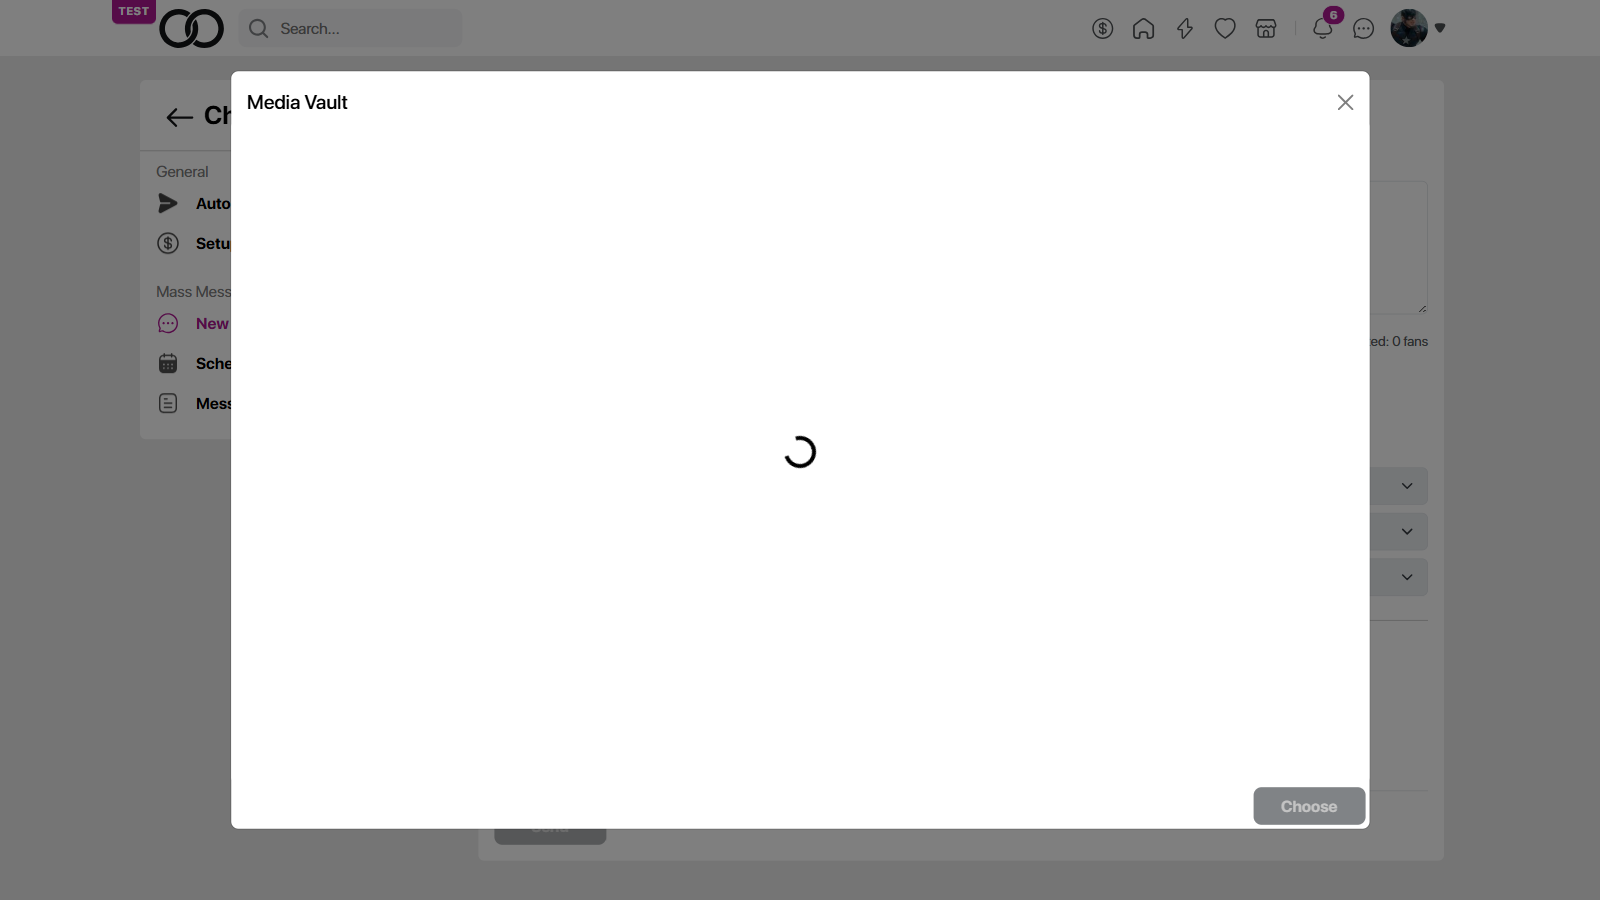
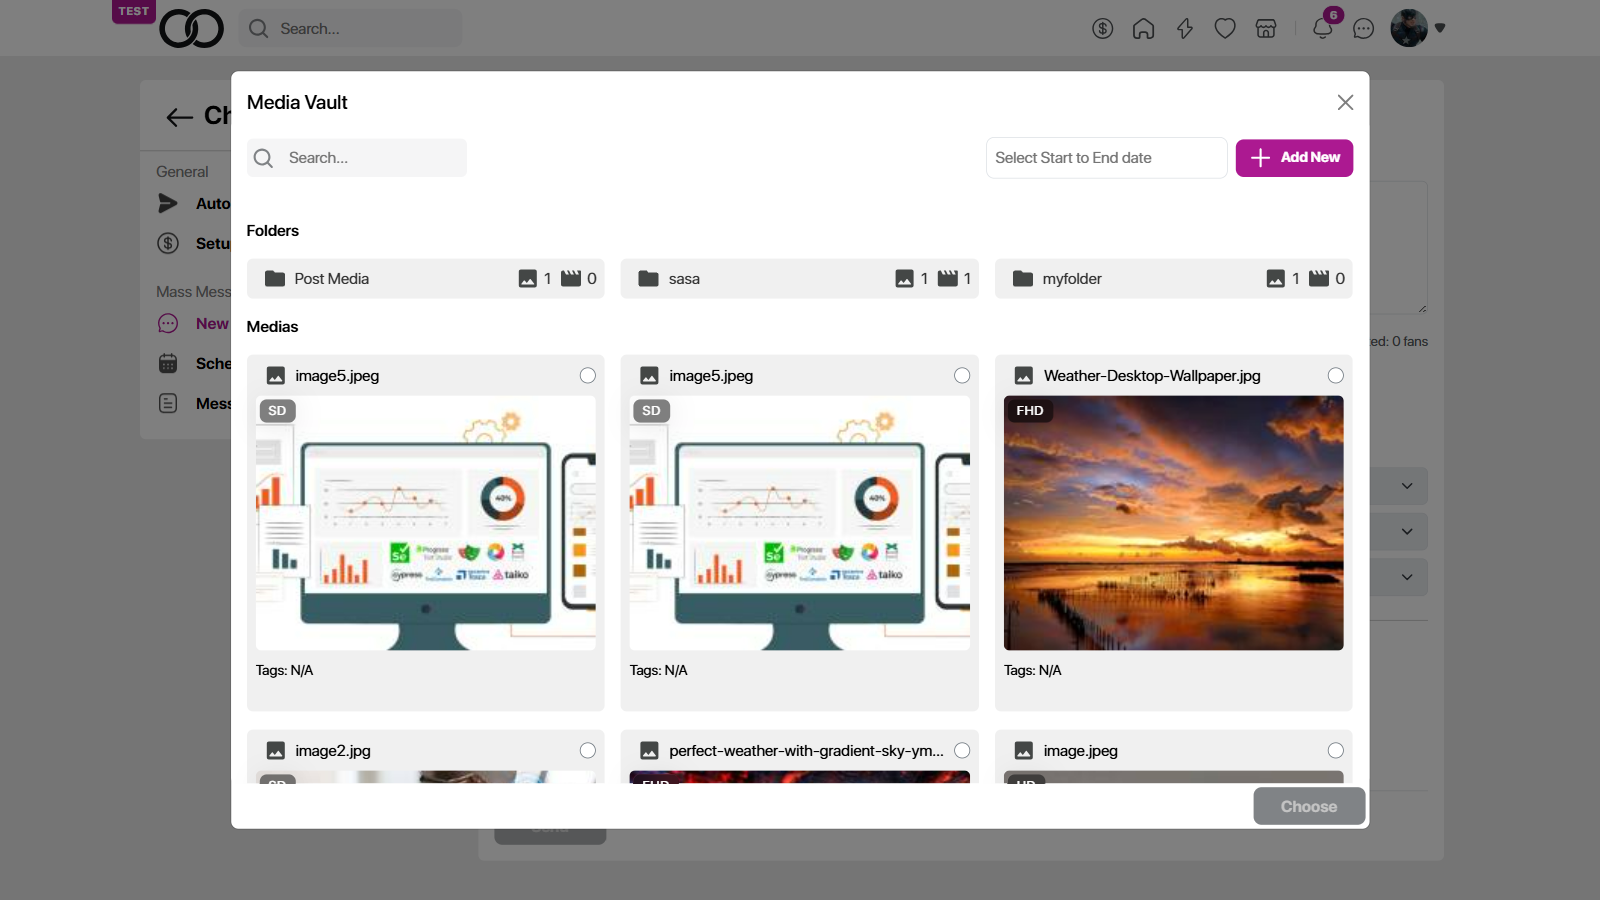
To add massMediaVaultTest  and Update the massMessageTest

diff --git a/tests/massVaultMedia.test.js b/tests/massVaultMedia.test.js
@@ -91,74 +91,77 @@ chatData.forEach((dataRow, index) => {
       await handleError(page, index, 'Navigate to Chat', error);
     }
 
-    // Send Mass Message
-    const messageType = dataRow.MessageType?.toLowerCase();
-    console.log(`Sending Mass Message for type: ${messageType}`);
-    let sentMessage = '';
-    try {
-      sentMessage = await chat.sendMassMediaVault({
-        type: messageType,
-        content: phrase, // Use generated phrase as message content
-      });
-      await page.waitForTimeout(1000); // Buffer wait after typing message
-    } catch (error) {
-      await handleError(page, index, 'Send Mass Message', error);
-    }
+// Send Mass Message
+const messageType = dataRow.MessageType?.toLowerCase();
+console.log(`Sending Mass Message for type: ${messageType}`);
+let sentMessage = '';
 
-    // Select send details and submit
-    try {
-      await chat.sendMassMessageFromData();
-      console.log('Selected send details for the message.');
-    } catch (error) {
-      await handleError(page, index, 'Select Send Details', error);
-    }
+try {
+  // Sending the Mass Media Vault message
+  sentMessage = await chat.sendMassMediaVault({
+    type: messageType,
+    content: phrase, // Use the generated phrase as message content
+  });
+  await page.waitForTimeout(1000); // Buffer wait after typing message
 
-    // Submit the Mass message form
-    try {
-      // Click submit
-      await chat.submitForm();
+} catch (error) {
+  await handleError(page, index, 'Send Mass Message', error);
+}
 
-      // Wait for success popup to appear
-      await chat.waitForSuccessPopup({ timeout: 15000 });
+// Select send details and submit
+try {
+  await chat.sendMassMessageFromData();
+  console.log('Selected send details for the message.');
+} catch (error) {
+  await handleError(page, index, 'Select Send Details', error);
+}
 
-      // Try closing the success popup
-      try {
-        await chat.closeSuccessPopup();
-        console.log('Closed success popup');
-      } catch (err) {
-        const path = `screenshots/error_closing_popup_${Date.now()}.png`;
-        await page.screenshot({ path, fullPage: true });
-        throw new Error(`Failed to click close on success popup. Screenshot: ${path}`);
-      }
+// Submit the Mass message form
+try {
+  // Click submit
+  await chat.submitForm();
 
-      // Wait 2 seconds after closing
-      await page.waitForTimeout(2000);
+  // Wait for success popup to appear
+  await chat.waitForSuccessPopup({ timeout: 15000 });
 
-      // Explicitly check if popup is still visible
-      let isStillVisible = false;
-      try {
-        isStillVisible = await chat.successPopup?.isVisible({ timeout: 3000 });
-      } catch {
-        isStillVisible = false; // popup likely not found anymore
-      }
+  // Try closing the success popup
+  try {
+    await chat.closeSuccessPopup();
+    console.log('Closed success popup');
+  } catch (err) {
+    const path = `screenshots/error_closing_popup_${Date.now()}.png`;
+    await page.screenshot({ path, fullPage: true });
+    throw new Error(`Failed to click close on success popup. Screenshot: ${path}`);
+  }
 
-      // If the popup is still visible, fail the test
-      if (isStillVisible) {
-        const path = `screenshots/error_popup_still_visible_${Date.now()}.png`;
-        await page.screenshot({ path, fullPage: true });
-        throw new Error(`Success popup still visible after close. Screenshot: ${path}`);
-      }
+  // Wait for 2 seconds after closing
+  await page.waitForTimeout(2000);
 
-      // If no issues, test passes
-      console.log(`Mass ${messageType} message sent successfully by ${dataRow.CreatorEmail}`);
-      expect(true).toBeTruthy();
+  // Explicitly check if the popup is still visible
+  let isStillVisible = false;
+  try {
+    isStillVisible = await chat.successPopup?.isVisible({ timeout: 3000 });
+  } catch {
+    isStillVisible = false; // Popup likely not found anymore
+  }
 
-    } catch (error) {
-      await handleError(page, index, 'Submit Form', error);
-    }
+  // If the popup is still visible, fail the test
+  if (isStillVisible) {
+    const path = `screenshots/error_popup_still_visible_${Date.now()}.png`;
+    await page.screenshot({ path, fullPage: true });
+    throw new Error(`Success popup still visible after close. Screenshot: ${path}`);
+  }
+
+  // If no issues, the test passes
+  console.log(`Mass ${messageType} message sent successfully by ${dataRow.CreatorEmail}`);
+  expect(true).toBeTruthy();
+
+} catch (error) {
+  await handleError(page, index, 'Submit Form', error);
+}
+  
   });
 });
-
 
 fanData.forEach((fan, index) => {
   test.skip(`Verify Vault Media message visible to fan #${index + 1} - ${fan.FanEmail}`, async ({ browser }) => {

diff --git a/pages/ChatPage.js b/pages/ChatPage.js
@@ -322,7 +322,7 @@ async sendMassMessageFromData({ type, content }) {
   }
 }
 
-// Free Vault Media Messages
+// Free Media Vault Messages
 async sendMassMediaVault({ type, content }) {
 
   let messageToSend = content || generateRandomMessage(); // Use provided content or generate random message
@@ -392,20 +392,45 @@ async sendMassMediaVault({ type, content }) {
         throw new Error('Failed to click Add Vault Media button');
       }
 
-      // Select the image using the full XPath
-      const mediaInputLocator = this.page.locator('/html/body/div[2]/div/div/div[2]/div/div[6]/div/div[1]/div[1]/div/div[1]/input');
-      try {
-        await mediaInputLocator.waitFor({ state: 'visible', timeout: 5000 });
-        await mediaInputLocator.setInputFiles('/path/to/your/image.jpg'); // Update with the correct file path
-        console.log('Selected media file for attachment');
-      } catch (error) {
-        await this.page.screenshot({ path: `error_select_media_${type}.png` });
-        throw new Error('Failed to select media file');
-      }
+// Select the radio button using the full XPath
+//const mediaInputLocator = this.page.locator("(//div[@class='d-flex align-items-center ps-2 gap-2 position-relative']/img)[1]");
+const mediaInputLocator = this.page.locator("div.d-flex.align-items-center.ps-2.gap-2.position-relative img + input[type='radio']");
 
-      // Click on the "Choose" button
-      const chooseButton = this.page.locator('button:has(text="Choose")');
-      try {
+
+try {
+  // Wait for the radio button to be visible (explicit wait with a longer timeout)
+  await mediaInputLocator.waitFor({ state: 'visible', timeout: 10000 }); // Increased timeout to 10 seconds
+  
+  // Check if the radio button is already checked
+  const isChecked = await mediaInputLocator.isChecked();
+  if (!isChecked) {
+    // Click the radio button if it's not already checked
+    await mediaInputLocator.click();
+    console.log('Radio button clicked successfully');
+  } else {
+    console.log('Radio button is already selected');
+  }
+
+  // Wait for the "Add Vault Media" button or the next required step
+  const addVaultMediaButton = await this.page.locator("//button[contains(text(), 'Add Vault Media')]");
+  await addVaultMediaButton.waitFor({ state: 'visible', timeout: 5000 });
+  await addVaultMediaButton.click();
+
+  // Select the media file for attachment
+  const fileInputLocator = await this.page.locator('input[type="file"]'); // Locate the file input field
+  await fileInputLocator.setInputFiles('/path/to/your/image.jpg'); // Update with the correct file path
+  console.log('Selected media file for attachment');
+  
+} catch (error) {
+  // Take a screenshot if an error occurs
+  await this.page.screenshot({ path: `error_select_media_${type}.png` });
+  console.error('Error occurred while selecting the radio button or file:', error);
+  throw new Error('Failed to select media file');
+}
+
+// Click on the "Choose" button
+  const chooseButton = this.page.locator('button:has(text="Choose")');
+    try {
         await chooseButton.waitFor({ state: 'visible', timeout: 5000 });
         await chooseButton.click();
         console.log('Clicked Choose button');
@@ -442,9 +467,6 @@ async sendMassMediaVault({ type, content }) {
     throw error;
   }
 }
-
-
-
 
 async selectSendDetails() {
   try {
